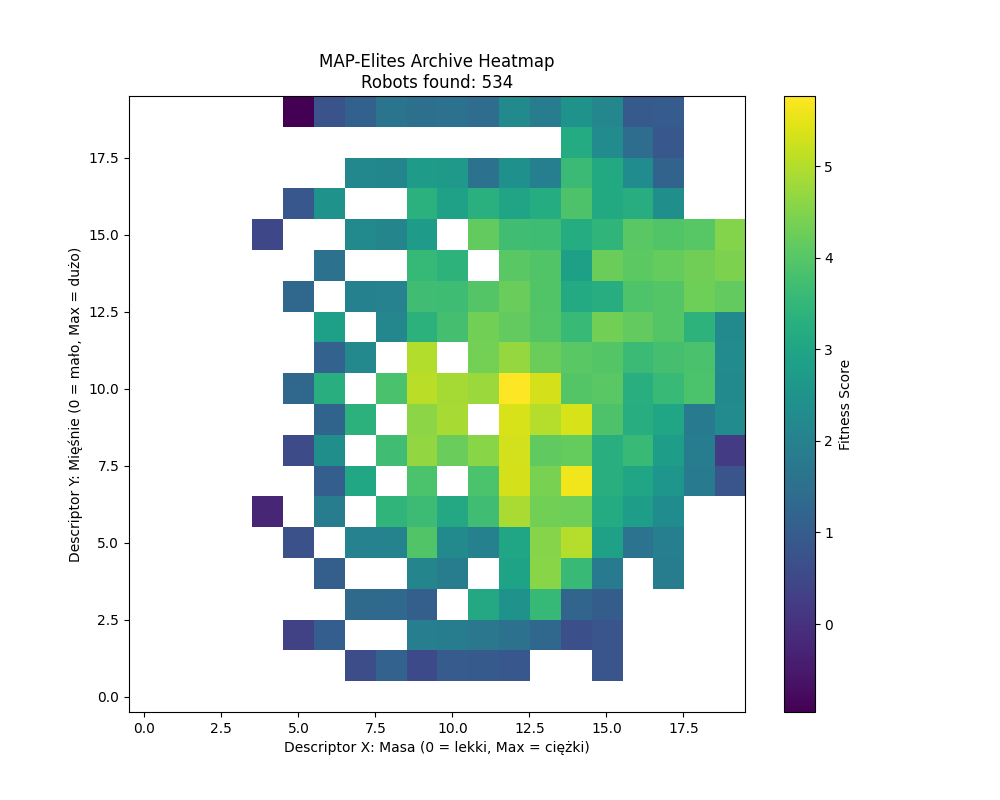
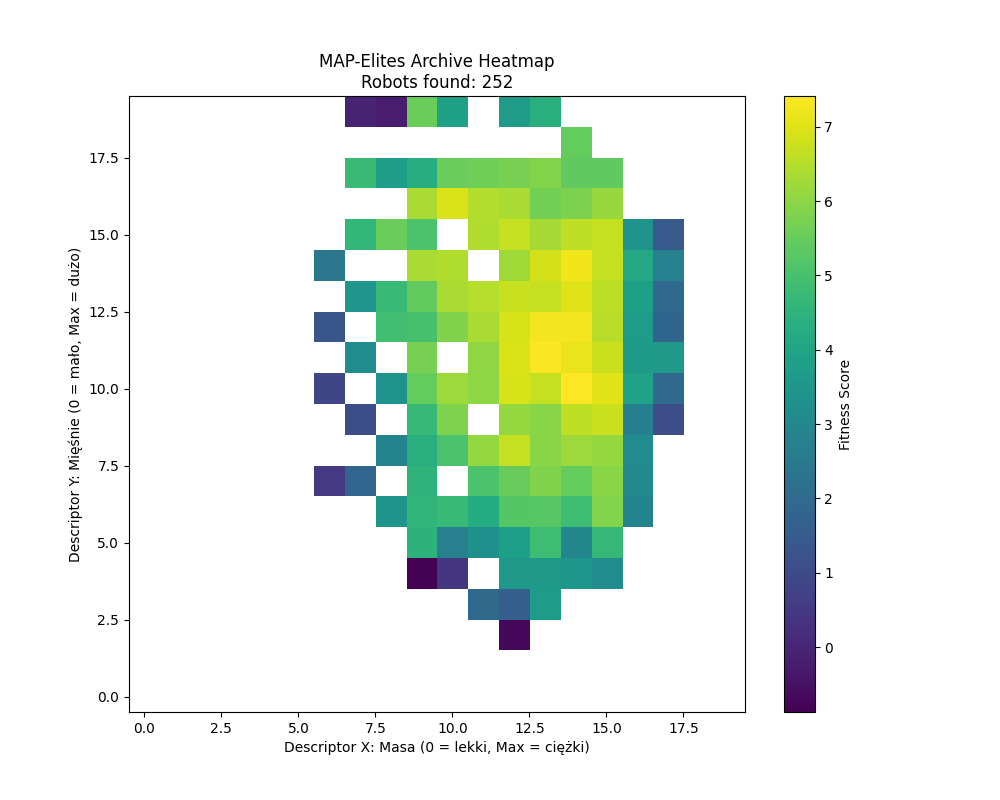
Added selection

Changed region(s): [[0.248, 0.0938, 0.744, 0.875]]

diff --git a/src/algorithms/MAPElites_genetic_algorithm/genetic_algorithm.py b/src/algorithms/MAPElites_genetic_algorithm/genetic_algorithm.py
@@ -61,39 +61,73 @@ class MAPElitesAlgorithm(BaseGeneticAlgorithm):
 
         return (x_idx, y_idx, z_idx)
 
-    def mutate(self, parent: Structure) -> Structure:
+    def _random_selection(self, keys: list[Tuple]) -> Structure:
+        random_key = random.choice(keys)
+        return self.archive[random_key]
+
+    def _tournament_selection(self, keys: list[Tuple], tournament_size: int = 5) -> Structure:
+        candidate_keys = random.sample(keys, min(len(keys), tournament_size))
+        best_key = max(candidate_keys,  key = lambda k: self.archive[k].fitness)
+        return self.archive[best_key]
+    
+    def _exponential_selection(self, keys: list[Tuple]) -> Structure:
+        candidtaes = [self.archive[k] for k in keys]
+        fitnesses = np.array([rob.fitness for rob in candidtaes])
+        weights = np.exp(fitnesses- np.max(fitnesses))
+        
+        return random.choices(candidtaes, weights=weights, k=1)[0]
+
+    def crossover(self, parent1: Structure, parent2: Structure) -> Structure:
+        for _ in range(20): 
+            child_body = np.zeros(self.robot_shape, dtype=int)
+            
+            axis = random.choice([0, 1])
+            split_idx = random.randint(1, self.robot_shape[axis] - 1)
+            
+            if axis == 0:
+                child_body[:split_idx, :] = parent1.body[:split_idx, :]
+                child_body[split_idx:, :] = parent2.body[split_idx:, :]
+            else:
+                child_body[:, :split_idx] = parent1.body[:, :split_idx]
+                child_body[:, split_idx:] = parent2.body[:, split_idx:]
+            
+            child = Structure(child_body)
+            if child.is_valid():
+                return child
+        
+        return copy.deepcopy(parent1)
+
+    def mutate(self, parent: Structure, min_mutations: int = 1, bonus_chance: float = 0.2) -> Structure:
         for _ in range(20): 
             new_body = parent.body.copy()
+            mutations_left = min_mutations
             
-            if random.random() < 0.5: 
+            while mutations_left > 0:
                 r, c = np.random.randint(0, self.robot_shape[0]), np.random.randint(0, self.robot_shape[1])
-                if new_body[r, c] != 0: 
-                    current_type = new_body[r, c]
-                    if current_type == 1:
-                        new_body[r, c] = random.choice([2, 3, 4])
-                    else:
-                        new_body[r, c] = 1
-
-            if random.random() < 0.5: 
-                r, c = np.random.randint(0, self.robot_shape[0]), np.random.randint(0, self.robot_shape[1])
+                mutation_happened = False
                 
                 if new_body[r, c] != 0: 
                     if random.random() < 0.5:
-                        new_body[r, c] = 0
+                        current = new_body[r, c]
+                        new_body[r, c] = random.choice([2, 3, 4]) if current == 1 else 1
+                    else:
+                        if random.random() < 0.4: new_body[r, c] = 0
+                    mutation_happened = True
                 else:
                     if random.random() < 0.5:
-                        if random.random() < 0.5:
-                            new_body[r, c] = 1 
-                        else:
-                            new_body[r, c] = random.choice([2, 3, 4]) 
+                        new_body[r, c] = 1 if random.random() < 0.5 else random.choice([2, 3, 4])
+                        mutation_happened = True
+                
+                if mutation_happened:
+                    if random.random() > bonus_chance:
+                        mutations_left -= 1
             
             child = Structure(new_body)
             if child.is_valid():
                 return child
-        
-        return parent 
+        return parent
 
-    def run(self):
+    def run(self, strategy: str = "aggressive_bonus", min_mutations: int = 1):
         with multiprocessing.Pool(processes=self.num_workers) as pool:
             inputs = zip(self.population, [self.env_type] * len(self.population))
             fitness_scores = pool.starmap(evaluate, inputs)
@@ -103,19 +137,37 @@ class MAPElitesAlgorithm(BaseGeneticAlgorithm):
                 self._add_to_archive(ind)
 
         batch_size = self.num_workers * 4 
-        
         current_iter = 0
+        
         while current_iter < self.generations:
             keys = list(self.archive.keys())
             if not keys: break 
             
-            parents = []
+            offspring = []
             for _ in range(batch_size):
-                random_key = random.choice(keys)
-                parents.append(self.archive[random_key])
-            
-            offspring = [self.mutate(p) for p in parents]
-            
+                
+                parent = None
+                child = None
+
+                match strategy:
+                    case "random_search":
+                        parent = self._random_selection(keys)
+                        child = self.mutate(parent, min_mutations, bonus_chance=0.0)
+
+                    case "tournament":
+                        parent = self._tournament_selection(keys, size=5)
+                        child = self.mutate(parent, min_mutations, bonus_chance=0.1)
+
+                    case "aggressive_bonus":
+                        parent = self._exponential_selection(keys)
+                        child = self.mutate(parent, min_mutations, bonus_chance=0.2)
+
+                    case _:
+                        parent = self._select_random(keys)
+                        child = self.mutate(parent)
+                
+                offspring.append(child)
+
             with multiprocessing.Pool(processes=self.num_workers) as pool:
                 inputs = zip(offspring, [self.env_type] * len(offspring))
                 fitness_scores = pool.starmap(evaluate, inputs)
@@ -126,35 +178,20 @@ class MAPElitesAlgorithm(BaseGeneticAlgorithm):
             
             current_iter += 1
             
-            if current_iter % 10 == 0:
-                best_glob = self.top_10_robots[0].fitness if self.top_10_robots else 0
-                print(f"Iter {current_iter} | Archive Size: {len(self.archive)} | Global Best: {best_glob:.4f}")
+            best_glob = self.top_10_robots[0].fitness if self.top_10_robots else 0
+            print(f"Iter {current_iter} | Archive: {len(self.archive)} | Best: {best_glob:.4f} | Mode: {strategy}")
                 
         return self.top_10_robots[0] if self.top_10_robots else None
     
     def visualize_archive(self, filename="fitness_heatmap.png"):
-        """
-        Tworzy mapę cieplną (heatmap) archiwum.
-        Oś X: Masa (od descriptor index 0 do grid_size)
-        Oś Y: Proporcja Mięśni (od descriptor index 0 do grid_size)
-        Kolor: Najlepszy Fitness Score w danej komórce (agregacja po osi Z)
-        """
-        # Tworzymy pustą macierz 2D wypełnioną wartościami NaN (żeby puste pola były białe)
         heatmap_data = np.full((self.grid_size, self.grid_size), np.nan)
 
-        # Wypełniamy macierz danymi
         for (x, y, z), robot in self.archive.items():
-            # Ponieważ mamy 3 wymiary, a rysujemy 2D, musimy zdecydować co zrobić z 3 wymiarem (Z).
-            # Bierzemy MAX fitness dla danego X i Y (najlepszy robot w tej "kolumnie")
             current_val = heatmap_data[x, y]
             if np.isnan(current_val) or robot.fitness > current_val:
                 heatmap_data[x, y] = robot.fitness
 
-        # Rysowanie
         plt.figure(figsize=(10, 8))
-        
-        # Tworzenie heatmapy
-        # origin='lower' sprawia, że (0,0) jest w lewym dolnym rogu, a nie górnym
         plt.imshow(heatmap_data.T, cmap='viridis', origin='lower', interpolation='nearest')
         
         cbar = plt.colorbar()
@@ -163,12 +200,7 @@ class MAPElitesAlgorithm(BaseGeneticAlgorithm):
         plt.xlabel('Descriptor X: Masa (0 = lekki, Max = ciężki)')
         plt.ylabel('Descriptor Y: Mięśnie (0 = mało, Max = dużo)')
         plt.title(f'MAP-Elites Archive Heatmap\nRobots found: {len(self.archive)}')
-        
-        # Zapisz do pliku (bezpieczniej, bo plt.show() blokuje program)
         plt.savefig(filename)
-        print(f"Heatmapa zapisana jako {filename}")
-        
-        # Pokaż okno (opcjonalne, zakomentuj jeśli puszczasz na serwerze)
         plt.show()
 
     def _add_to_archive(self, robot: Structure):

diff --git a/src/main.py b/src/main.py
@@ -10,11 +10,11 @@ from algorithms.species_genetic_algorithm.species import Species
 if __name__ == "__main__":
     ga = MAPElitesAlgorithm(
         experiment_name="test_map_elites",
-        iterations=300,
+        iterations=200,
         grid_size=20,
         initial_pop_size=50
     )
-    winner = ga.run()
+    winner = ga.run(min_mutations=1)
     ga.visualize_archive()
     
     muscle_indices = np.where((winner.body == 3) | (winner.body == 4))
